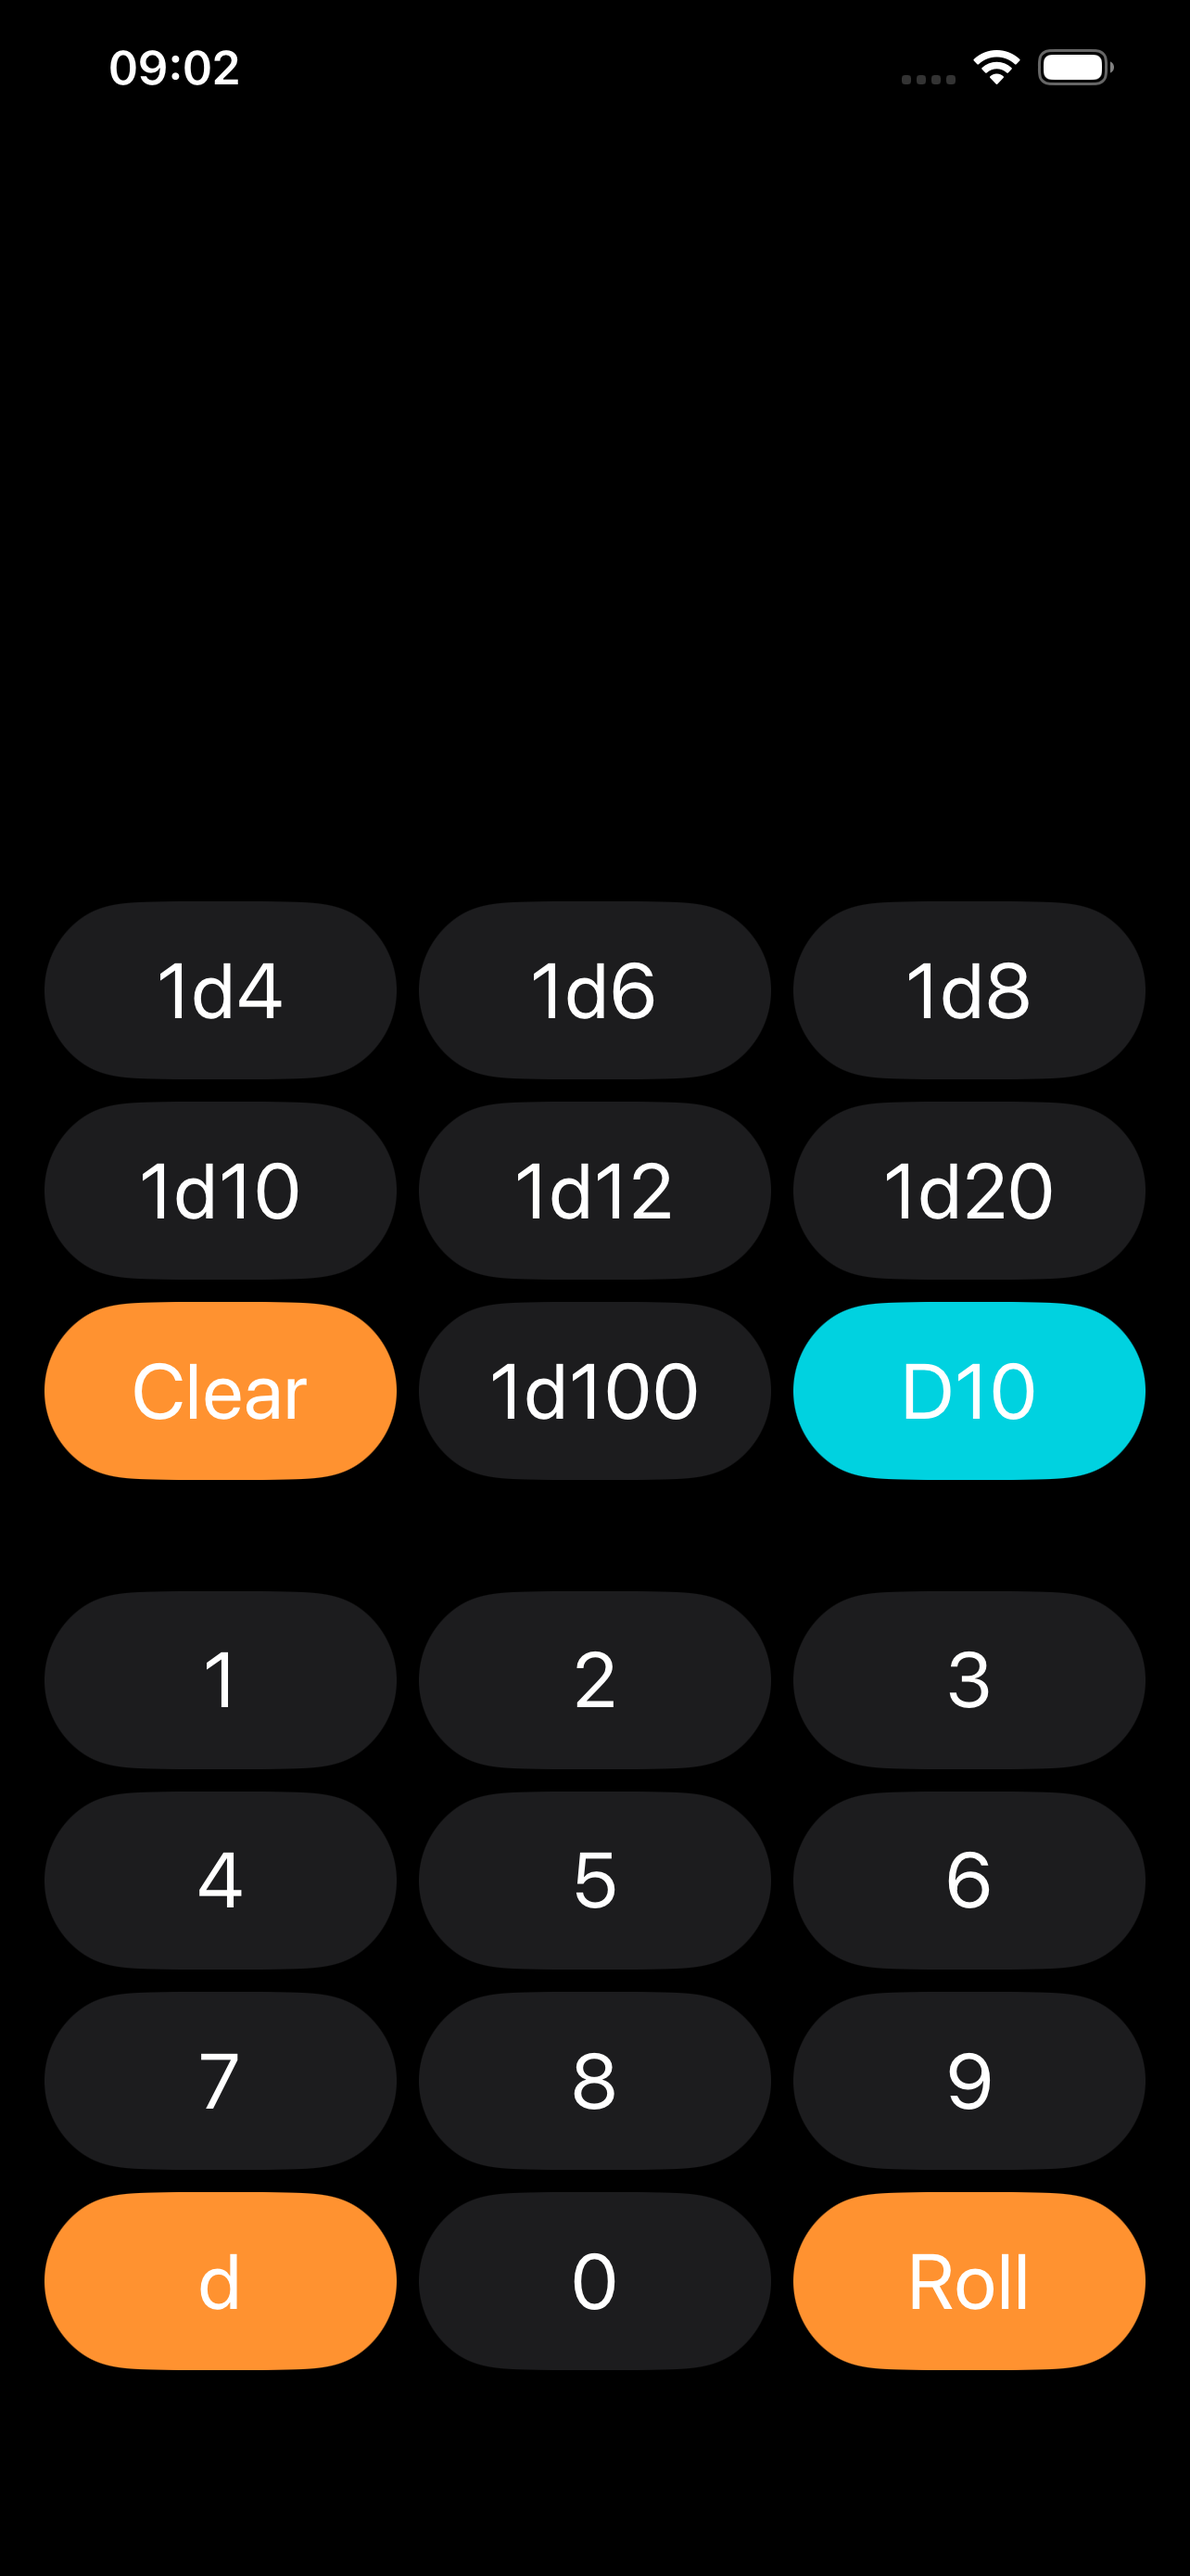
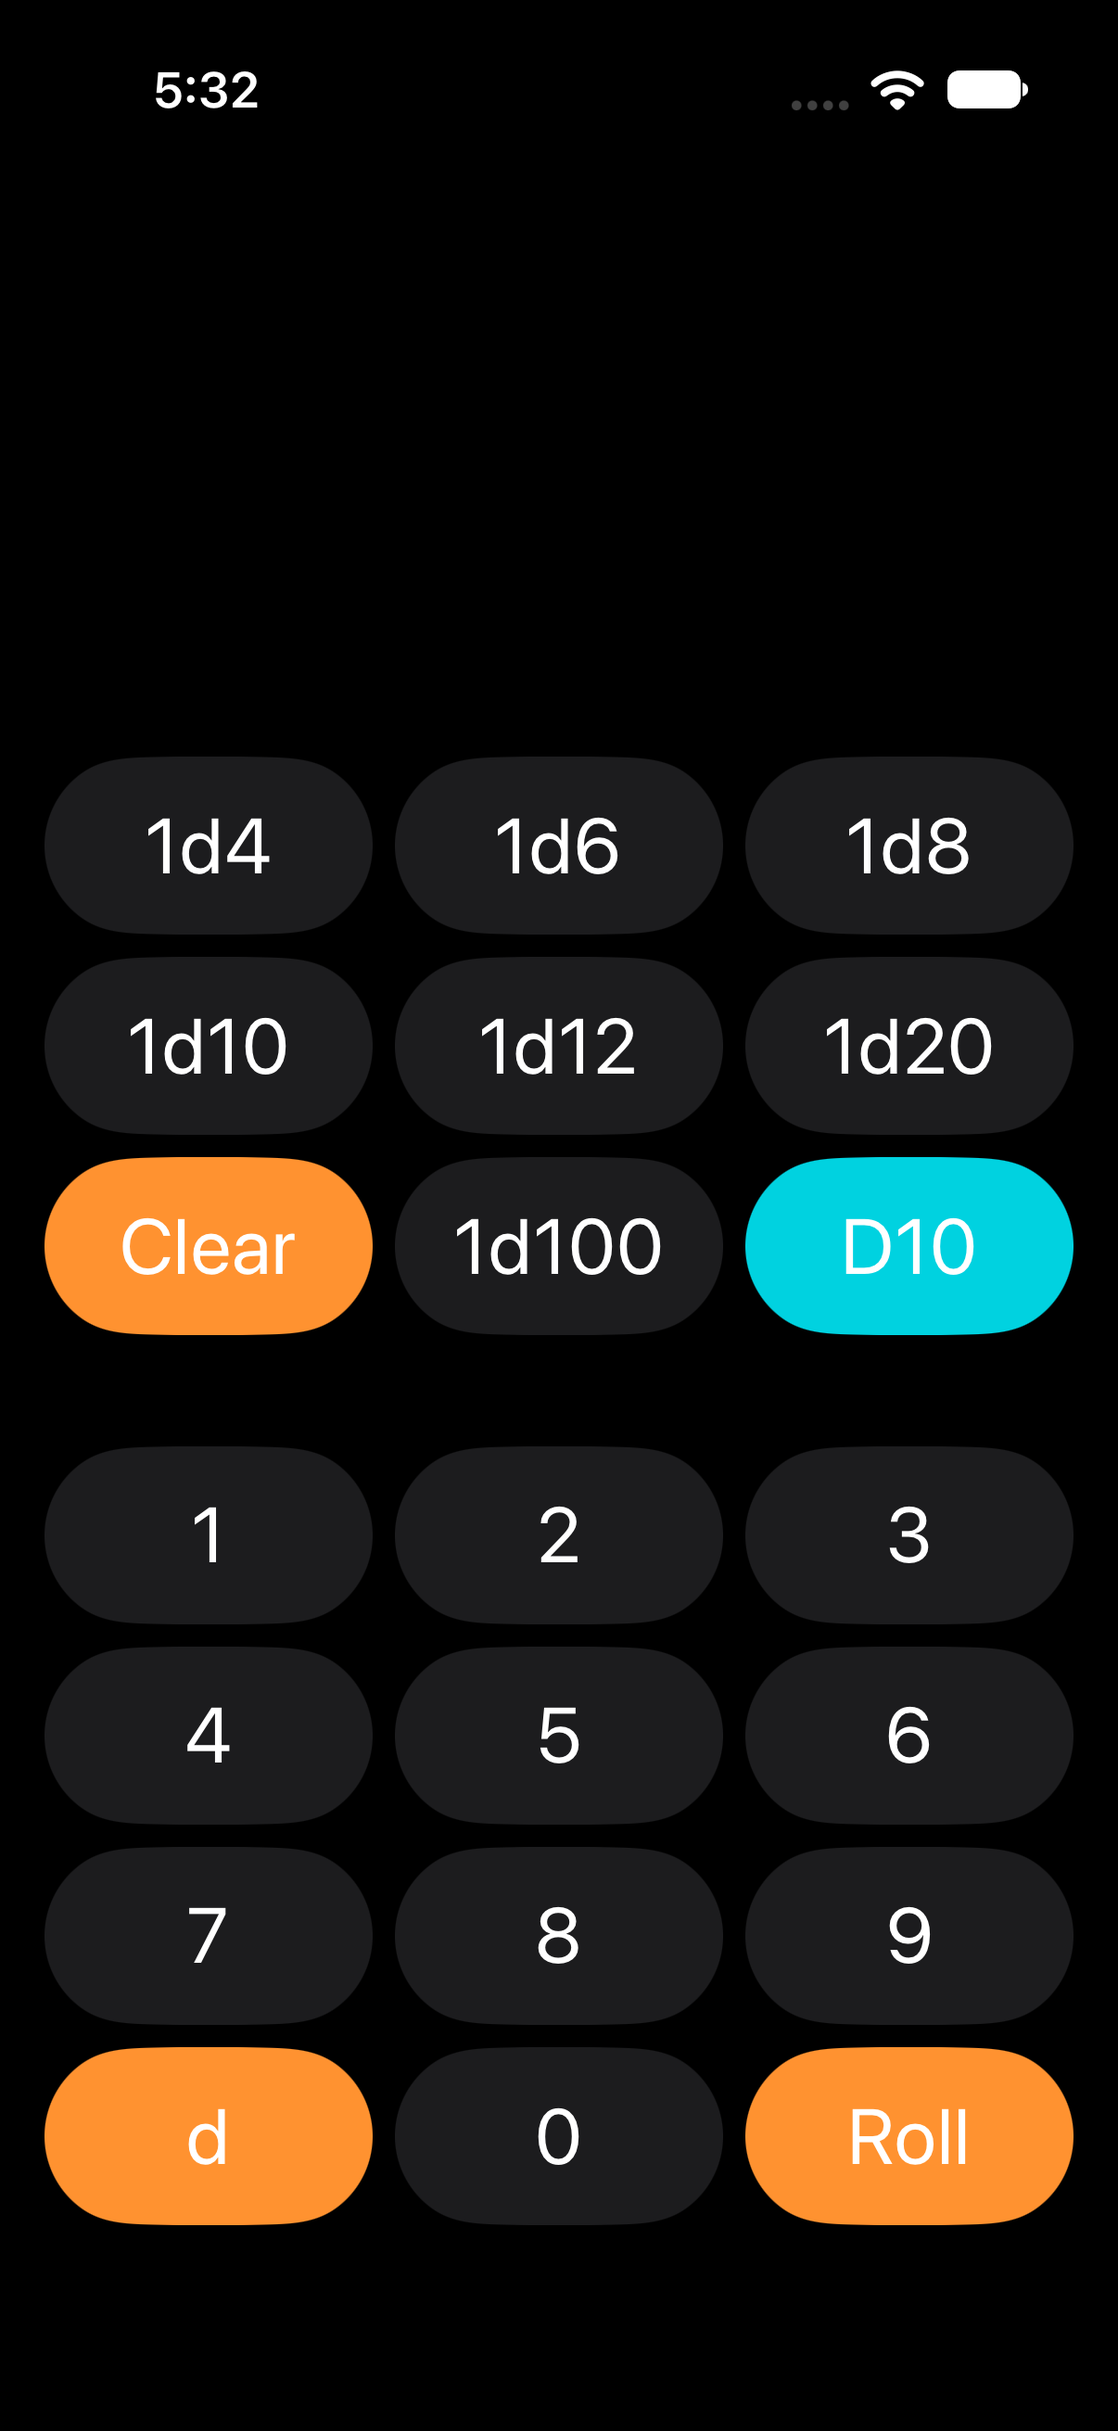
Duo support

diff --git a/Maki Dice/D10View.swift b/Maki Dice/D10View.swift
@@ -13,6 +13,7 @@ struct D10View: View {
 	@State private var selected: Int = 1
 	@State private var successesString: String = ""
 	@State private var successesValue: Int = 0
+	@State private var topInset: CGFloat = 0
 
 	var body: some View {
 		NavigationStack {
@@ -22,6 +23,7 @@ struct D10View: View {
 					Spacer()
 				}
 				.padding(.horizontal)
+				.padding(.top, topInset == 0 ? 20 : 0)
 				Spacer()
 				HStack {
 					diceLabel
@@ -58,41 +60,46 @@ struct D10View: View {
 						.minimumScaleFactor(0.2)
 				}
 				.padding(.horizontal)
-				HStack {
-					diceButton
-					difficultyButton
+				VStack(spacing: 8) {
+					HStack {
+						diceButton
+						difficultyButton
+					}
+					Color.clear
+						.frame(height: 24)
+					HStack {
+						numberButton(1)
+						numberButton(2)
+						numberButton(3)
+					}
+					HStack {
+						numberButton(4)
+						numberButton(5)
+						numberButton(6)
+					}
+					HStack {
+						numberButton(7)
+						numberButton(8)
+						numberButton(9)
+					}
+					HStack {
+						clearButton
+						numberButton(10)
+						rollButton
+					}
 				}
-				.padding()
-				VStack {
-				}
-				.padding(.vertical, 4)
-				HStack {
-					numberButton(1)
-					numberButton(2)
-					numberButton(3)
-				}
+				.frame(maxHeight: 314)
+				.layoutPriority(1)
 				.padding(.horizontal)
-				HStack {
-					numberButton(4)
-					numberButton(5)
-					numberButton(6)
-				}
-				.padding(.horizontal)
-				HStack {
-					numberButton(7)
-					numberButton(8)
-					numberButton(9)
-				}
-				.padding(.horizontal)
-				HStack {
-					clearButton
-					numberButton(10)
-					rollButton
-				}
-				.padding(.horizontal)
+				.padding(.top)
 				VStack {
 				}
 				.padding(.vertical)
+			}
+			.onGeometryChange(for: CGFloat.self) { proxy in
+				proxy.safeAreaInsets.top
+			} action: { newValue in
+				topInset = newValue
 			}
 		}
 		.toolbar(.hidden, for: .navigationBar)
@@ -152,7 +159,7 @@ struct D10View: View {
 			Text("Clear")
 				.font(.title)
 				.foregroundColor(Color(.label))
-				.frame(maxWidth: .infinity, maxHeight: 50)
+				.frame(maxWidth: .infinity, maxHeight: .infinity)
 				.lineLimit(1)
 				.minimumScaleFactor(0.2)
 		}
@@ -185,7 +192,7 @@ struct D10View: View {
 			Text(String(digit))
 				.font(.title)
 				.foregroundColor(Color(.label))
-				.frame(maxWidth: .infinity, maxHeight: 50)
+				.frame(maxWidth: .infinity, maxHeight: .infinity)
 				.lineLimit(1)
 				.minimumScaleFactor(0.2)
 		}
@@ -199,7 +206,7 @@ struct D10View: View {
 				Text("Dice")
 					.font(.title)
 					.foregroundColor(Color(.label))
-					.frame(maxWidth: .infinity, maxHeight: 50)
+					.frame(maxWidth: .infinity, maxHeight: .infinity)
 					.lineLimit(1)
 					.minimumScaleFactor(0.2)
 			}
@@ -210,7 +217,7 @@ struct D10View: View {
 				Text("Dice")
 					.font(.title)
 					.foregroundColor(Color(.label))
-					.frame(maxWidth: .infinity, maxHeight: 50)
+					.frame(maxWidth: .infinity, maxHeight: .infinity)
 					.lineLimit(1)
 					.minimumScaleFactor(0.2)
 			}
@@ -229,7 +236,7 @@ struct D10View: View {
 				Text("Difficulty")
 					.font(.title)
 					.foregroundColor(Color(.label))
-					.frame(maxWidth: .infinity, maxHeight: 50)
+					.frame(maxWidth: .infinity, maxHeight: .infinity)
 					.lineLimit(1)
 					.minimumScaleFactor(0.2)
 			}
@@ -240,7 +247,7 @@ struct D10View: View {
 				Text("Difficulty")
 					.font(.title)
 					.foregroundColor(Color(.label))
-					.frame(maxWidth: .infinity, maxHeight: 50)
+					.frame(maxWidth: .infinity, maxHeight: .infinity)
 					.lineLimit(1)
 					.minimumScaleFactor(0.2)
 			}
@@ -258,7 +265,7 @@ struct D10View: View {
 			Text("Roll")
 				.font(.title)
 				.foregroundColor(Color(.label))
-				.frame(maxWidth: .infinity, maxHeight: 50)
+				.frame(maxWidth: .infinity, maxHeight: .infinity)
 				.lineLimit(1)
 				.minimumScaleFactor(0.2)
 		}

diff --git a/Maki Dice/MainView.swift b/Maki Dice/MainView.swift
@@ -10,17 +10,19 @@ struct MainView: View {
 	@State private var resetInput: Int = 1
 	@State private var resultString: String = ""
 	@State private var resultValue: Int = 0
+	@State private var topInset: CGFloat = 0
 	
 	var body: some View {
 		NavigationStack {
 			VStack {
 				Spacer()
-				Text(resultString)
+				Text(resultString.isEmpty ? " " : resultString)
 					.font(.largeTitle)
 					.foregroundColor(Color(.label))
 					.frame(maxWidth: .infinity, alignment: .trailing)
 					.lineLimit(1)
 					.minimumScaleFactor(0.2)
+					.padding(.top, topInset == 0 ? 20 : 0)
 				VStack {
 					HStack {
 						quickButton(4)
@@ -78,6 +80,11 @@ struct MainView: View {
 				.padding(.vertical)
 			}
 			.padding(.horizontal)
+			.onGeometryChange(for: CGFloat.self) { proxy in
+				proxy.safeAreaInsets.top
+			} action: { newValue in
+				topInset = newValue
+			}
 		}
 	}
 
